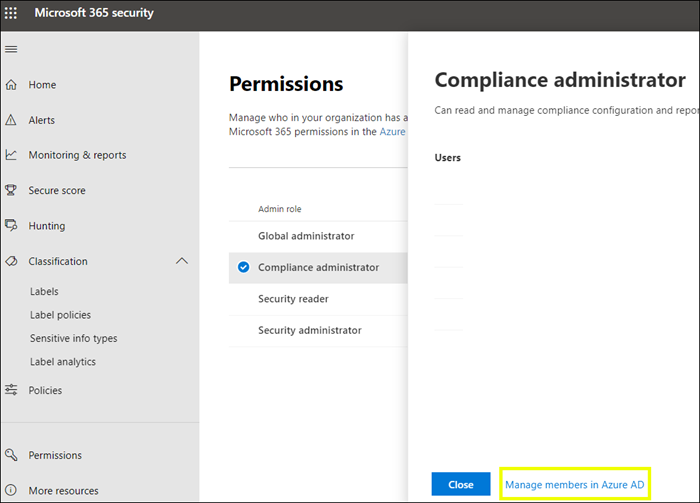
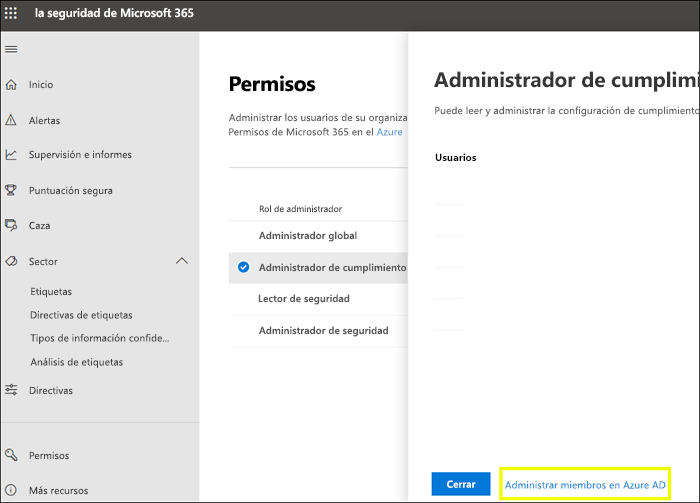
commit translated contents

diff --git a/SecurityCompliance/file-plan-manager.md b/SecurityCompliance/file-plan-manager.md
@@ -14,12 +14,12 @@ search.appverid:
 - MET150
 ms.assetid: af398293-c69d-465e-a249-d74561552d30
 description: 'El administrador del plan de archivos proporciona funciones avanzadas de administración para las etiquetas de retención, directivas de etiquetas de retención y proporciona una forma integrada para recorrer las etiquetas y la actividad de etiquetas de contenido para todo su ciclo de vida: incluyendo la creación, colaboración, declaración de registro, retención y, por último, eliminación.'
-ms.openlocfilehash: b7d80ff6a7f78e592462fe2723a87383e046015f
-ms.sourcegitcommit: 6eb51931242d07abde2e37f1bd57d13bc724f0de
+ms.openlocfilehash: 38bfb1e6a6cde931804e518660ddf6c2b45205b0
+ms.sourcegitcommit: f443de08971da2fe200a159b8efbed40effba125
 ms.translationtype: HT
 ms.contentlocale: es-ES
-ms.lasthandoff: 05/29/2019
-ms.locfileid: "34547975"
+ms.lasthandoff: 08/15/2019
+ms.locfileid: "36430017"
 ---
 # <a name="overview-of-file-plan-manager"></a>Información general sobre el administrador del plan de archivos
 
@@ -123,7 +123,28 @@ Descargue una plantilla en blanco (o empiece desde una exportación de su plan a
 
 ![Plantilla en blanco del plan de archivos abierta en Excel](media/file-plan-blank-template.png)
 
-Rellene la plantilla (disponible próximamente: información de referencia sobre combinaciones de valores válidas para una sola etiqueta de retención).
+Complete la plantilla. En esta tabla se muestran los valores válidos.
+
+|**Property**|**Tipo**|**Valores válidos**|
+|:-----|:-----|:-----|
+|LabelName|Cadena|Si el valor contiene espacios, escríbalo entre comillas (").|
+|Comment|Cadena|Si el valor contiene espacios, escríbalo entre comillas ("). |
+|Notes|Cadena|Personalizado|
+|IsRecordLabel|Cadena|$True: La etiqueta es una etiqueta de registro.</br>$False: La etiqueta no es una etiqueta de registro. Este es el valor predeterminado.|
+|RetentionAction|Cadena|Delete</br>Keep</br>KeepAndDelete |
+|RetentionDuration|Cadena|Esta propiedad especifica la cantidad de días que se va a conservar el contenido. Los valores válidos son:</br>Un número entero positivo.</br>El valor es ilimitado.|
+|RetentionType|Cadena|Esta propiedad especifica si se calcula la duración de retención desde la fecha de creación de contenidos, desde la fecha etiquetado o desde la fecha de la última modificación. Los valores válidos son:</br>CreationAgeInDays</br>EventAgeInDays</br>ModificationAgeInDays</br>TaggedAgeInDays |
+|ReviewerEmail|SmtpAddress[]|Esta propiedad especifica la dirección de correo electrónico del revisor para las acciones de retención Delete y KeepAndDelete. Puede especificar varias direcciones de correo electrónico separadas por comas.|
+|ReferenceId|Cadena|Personalizado|
+|DepartmentName|Cadena|Personalizado|
+|Categoría|Cadena|Personalizado|
+|SubCategory|Cadena|Personalizado|
+|AuthorityType|Cadena|Personalizado|
+|CitationName|Cadena|Personalizado|
+|CitationUrl|Cadena|Personalizado|
+|CitationJurisdiction|Cadena|Personalizado|
+|Regulatory|Cadena|Personalizado|
+|EventType|Cadena|Esta propiedad especifica la regla de retención que está asociada a la etiqueta. Puede usar cualquier valor que identifique de forma exclusiva la regla. Por ejemplo:</br>Nombre</br>Nombre completo (DN)</br>GUID </br>Puede usar el cmdlet [Get-RetentionComplianceRule](https://docs.microsoft.com/es-ES/powershell/module/exchange/policy-and-compliance-retention/get-retentioncompliancerule?view=exchange-ps) para ver las reglas de retención disponibles.|
 
 ![Plantilla del plan de archivos con información rellenada](media/file-plan-filled-out-template.png)
 
